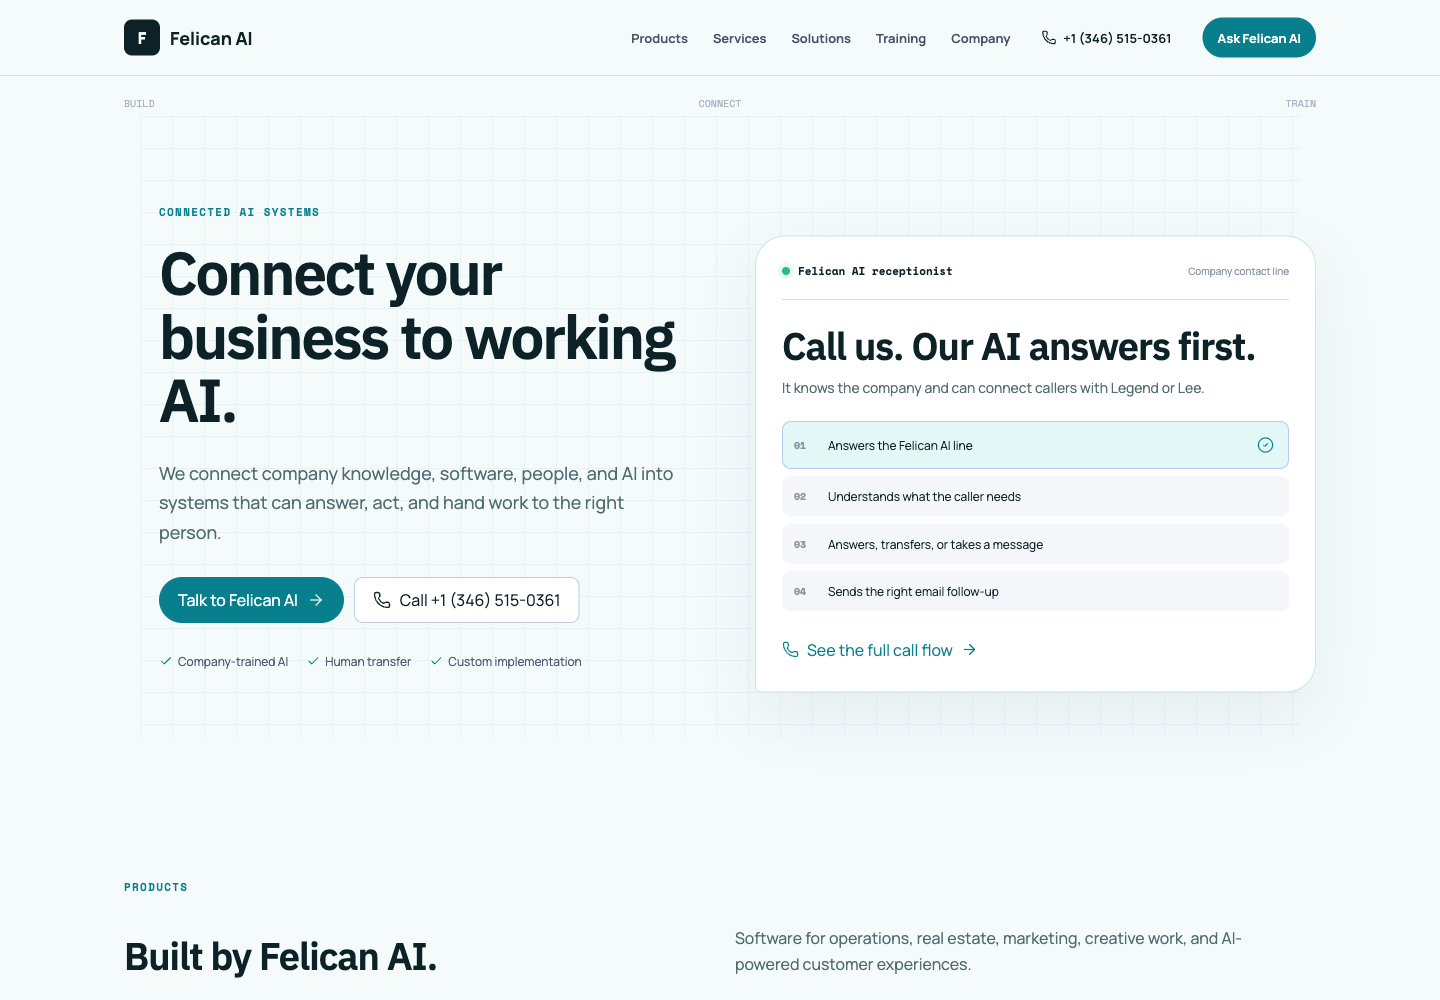
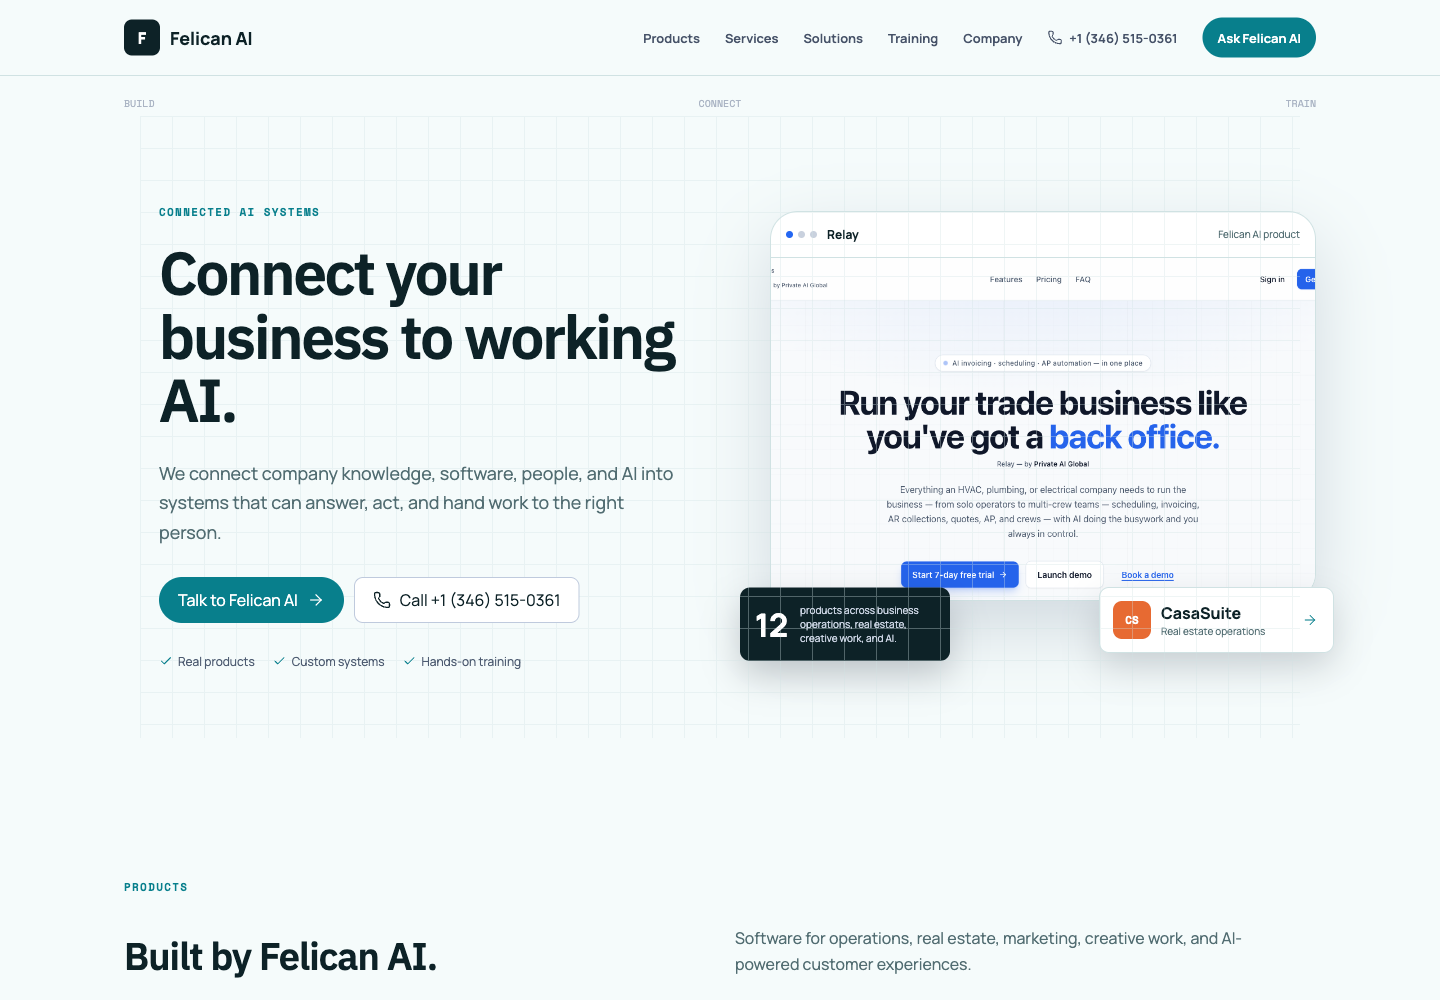
fix: keep phone automation private and lead with products

diff --git a/src/site.jsx b/src/site.jsx
@@ -6,6 +6,8 @@ import {
 } from 'lucide-react';
 import './reboot.css';
 import './variants.css';
+import './cleanup.css';
+import './cleanup.css';
 
 const PHONE = '+1 (346) 515-0361';
 const PHONE_HREF = 'tel:+13465150361';
@@ -35,7 +37,7 @@ const services = [
 ];
 
 const faqs = [
-  ['What happens when I call Felican AI?', 'Our AI receptionist answers the company line. It can explain what Felican AI does, answer common questions, transfer you to Legend or Lee, take a message, and trigger an email follow-up.'],
+  ['How can I contact Felican AI?', `Call us at ${PHONE}, email the company, or use the website assistant. The contact section has all three options.`],
   ['Can Felican connect to our current software?', 'Yes. We design integrations around the systems your team already uses, including CRM, email, calendars, phone systems, documents, and databases.'],
   ['Is the website assistant also a product?', 'Yes. The assistant on this site represents a product Felican AI can tailor to another company’s knowledge, services, lead process, and escalation rules.'],
   ['Do you offer private AI and training?', 'Yes. We provide controlled AI deployments as well as practical training for teams that need to adopt AI responsibly and usefully.'],
@@ -45,14 +47,14 @@ function Mark() {
   return <a className="fs-mark" href="#top"><span>F</span><b>Felican AI</b></a>;
 }
 
-function Header({ onChat, onPhone }) {
+function Header({ onChat }) {
   const [open, setOpen] = useState(false);
   return <header className="fs-header">
     <Mark />
     <button className="fs-menu" aria-label="Toggle navigation" onClick={() => setOpen(!open)}>{open ? <X/> : <Menu/>}</button>
     <nav className={open ? 'open' : ''}>
       <a href="#products">Products</a><a href="#services">Services</a><a href="#solutions">Solutions</a><a href="#training">Training</a><a href="#about">Company</a>
-      <button className="fs-phone-link" onClick={onPhone}><Phone/> {PHONE}</button>
+      <a className="fs-phone-link" href={PHONE_HREF}><Phone/> {PHONE}</a>
       <button className="fs-primary fs-nav-cta" onClick={onChat}>Ask Felican AI</button>
     </nav>
   </header>;
@@ -62,27 +64,18 @@ function ReviewBar({ variant, setVariant }) {
   return <div className="review-bar"><span>Design review</span>{[['signal','01 Signal'],['catalog','02 Catalog'],['network','03 Network']].map(([id,label]) => <button className={variant === id ? 'active' : ''} onClick={() => setVariant(id)} key={id}>{label}</button>)}</div>;
 }
 
-function ReceptionistCard({ onPhone }) {
-  const [step, setStep] = useState(0);
-  const steps = [
-    ['01', 'Answers the Felican AI line'],
-    ['02', 'Understands what the caller needs'],
-    ['03', 'Answers, transfers, or takes a message'],
-    ['04', 'Sends the right email follow-up'],
-  ];
-  return <article className="reception-card">
-    <header><span className="live-dot"/> Felican AI receptionist <small>Company contact line</small></header>
-    <h2>Call us. Our AI answers first.</h2>
-    <p>It knows the company and can connect callers with Legend or Lee.</p>
-    <div className="call-steps">{steps.map(([n,label], i) => <button className={step === i ? 'active' : ''} onClick={() => setStep(i)} key={n}><b>{n}</b><span>{label}</span>{step === i && <CircleCheck/>}</button>)}</div>
-    <button className="fs-call-button" onClick={onPhone}><Phone/> See the full call flow <ArrowRight/></button>
-  </article>;
+function ProductShowcase() {
+  return <div className="hero-showcase">
+    <div className="showcase-window"><header><span><i/><i/><i/></span><b>Relay</b><small>Felican AI product</small></header><img src="/relay-live.png" alt="Relay field service software"/></div>
+    <div className="showcase-stat"><strong>12</strong><span>products across business operations, real estate, creative work, and AI.</span></div>
+    <div className="showcase-mini"><span className="product-symbol" style={{background:'#e76a32'}}>CS</span><div><b>CasaSuite</b><small>Real estate operations</small></div><ArrowRight/></div>
+  </div>;
 }
 
-function Hero({ onChat, onPhone, variant }) {
+function Hero({ onChat, variant }) {
   const copy = {
     signal: ['Products · Services · Training', 'Practical AI for the work that runs your business.', 'Felican AI builds software, assistants, and automations for companies that want useful systems, clear support, and measurable improvements.'],
-    catalog: ['The Felican AI catalogue', 'Products and services, built by Felican AI.', 'Explore our software portfolio, custom implementation services, company AI receptionist, training, and publishing work.'],
+    catalog: ['The Felican AI catalogue', 'Products and services, built by Felican AI.', 'Explore our software portfolio, custom implementation services, training programs, and publishing work.'],
     network: ['Connected AI systems', 'Connect your business to working AI.', 'We connect company knowledge, software, people, and AI into systems that can answer, act, and hand work to the right person.'],
   }[variant];
   return <section className="fs-hero" id="top">
@@ -90,10 +83,10 @@ function Hero({ onChat, onPhone, variant }) {
       <span className="fs-kicker">{copy[0]}</span>
       <h1>{copy[1]}</h1>
       <p>{copy[2]}</p>
-      <div className="hero-actions"><button className="fs-primary" onClick={onChat}>Talk to Felican AI <ArrowRight/></button><button className="fs-secondary" onClick={onPhone}><Phone/> Call {PHONE}</button></div>
-      <div className="hero-proof"><span><Check/> Company-trained AI</span><span><Check/> Human transfer</span><span><Check/> Custom implementation</span></div>
+      <div className="hero-actions"><button className="fs-primary" onClick={onChat}>Talk to Felican AI <ArrowRight/></button><a className="fs-secondary" href={PHONE_HREF}><Phone/> Call {PHONE}</a></div>
+      <div className="hero-proof"><span><Check/> Real products</span><span><Check/> Custom systems</span><span><Check/> Hands-on training</span></div>
     </div>
-    <ReceptionistCard onPhone={onPhone}/>
+    <ProductShowcase/>
     <div className="hero-grid-labels" aria-hidden="true"><span>BUILD</span><span>CONNECT</span><span>TRAIN</span></div>
   </section>;
 }
@@ -152,8 +145,8 @@ function FAQ() {
   return <section className="fs-faq"><div className="section-heading"><span>FAQ</span><h2>Common questions.</h2></div><div>{faqs.map(([q,a],i) => <article className={open === i ? 'open' : ''} key={q}><button onClick={() => setOpen(open === i ? -1 : i)}><span>{q}</span><ChevronDown/></button>{open === i && <p>{a}</p>}</article>)}</div></section>;
 }
 
-function Contact({ onPhone, onChat }) {
-  return <section className="fs-contact" id="contact"><div><span>Contact</span><h2>Tell us what needs to work better.</h2><p>Talk with Felican AI first, or contact the company directly.</p></div><div className="contact-actions"><button onClick={onPhone}><Phone/><span><small>Call our AI receptionist</small><b>{PHONE}</b></span><ArrowRight/></button><button onClick={onChat}><MessageCircle/><span><small>Chat on the website</small><b>Ask Felican AI</b></span><ArrowRight/></button><a href="mailto:info@privateaiglobal.com"><Mail/><span><small>Send an email</small><b>info@privateaiglobal.com</b></span><ArrowRight/></a></div></section>;
+function Contact({ onChat }) {
+  return <section className="fs-contact" id="contact"><div><span>Contact</span><h2>Tell us what needs to work better.</h2><p>Call, email, or start with the website assistant.</p></div><div className="contact-actions"><a href={PHONE_HREF}><Phone/><span><small>Call Felican AI</small><b>{PHONE}</b></span><ArrowRight/></a><button onClick={onChat}><MessageCircle/><span><small>Chat on the website</small><b>Ask Felican AI</b></span><ArrowRight/></button><a href="mailto:info@privateaiglobal.com"><Mail/><span><small>Send an email</small><b>info@privateaiglobal.com</b></span><ArrowRight/></a></div></section>;
 }
 
 function ChatPanel({ close }) {
@@ -161,17 +154,13 @@ function ChatPanel({ close }) {
   const [input,setInput] = useState('');
   const respond = text => {
     const q = text.toLowerCase();
-    if(q.includes('phone')||q.includes('call')) return `Call ${PHONE}. Our AI receptionist can help, transfer you to Legend or Lee, or take a message.`;
+    if(q.includes('phone')||q.includes('call')||q.includes('contact')) return `Call Felican AI at ${PHONE}, or use the contact section to send an email.`;
     if(q.includes('product')) return 'Felican products include Relay, CasaSuite, LeadConcierge AI, InvestorHQ, ThreadPilot, AdPulse, FrameFire, Lumina, Dendrite, Ora, and Quorum.';
     if(q.includes('train')) return 'Training includes AI fundamentals, prompting for daily work, workflow workshops, and hands-on agent building.';
     return 'Felican AI builds assistants, automations, integrations, private AI systems, and business software. Tell me what you want to improve and I’ll point you in the right direction.';
   };
   const send = text => { const clean=text.trim(); if(!clean)return; setMessages(m=>[...m,{role:'user',text:clean},{role:'bot',text:respond(clean)}]);setInput(''); };
-  return <aside className="fs-chat" role="dialog" aria-label="Felican AI website assistant"><header><div><span className="online"/><b>Felican AI Assistant</b><small>Website product demo</small></div><button onClick={close}><X/></button></header><div className="fs-chat-messages">{messages.map((m,i)=><p className={m.role} key={i}>{m.text}</p>)}</div><div className="quick-asks">{['What products do you have?','Tell me about training','How does the phone AI work?'].map(q=><button key={q} onClick={()=>send(q)}>{q}</button>)}</div><form onSubmit={e=>{e.preventDefault();send(input)}}><input aria-label="Message Felican AI" value={input} onChange={e=>setInput(e.target.value)} placeholder="Ask a question"/><button><Send/></button></form></aside>;
-}
-
-function PhonePanel({ close }) {
-  return <div className="fs-modal-wrap" onMouseDown={close}><section className="fs-phone-modal" role="dialog" aria-label="Felican AI receptionist call flow" onMouseDown={e=>e.stopPropagation()}><button className="modal-x" onClick={close}><X/></button><span className="fs-kicker">Company phone system</span><h2>What happens when you call.</h2><p>The number on the contact page routes to Felican AI’s own receptionist. It is not a product listing; it is how customers reach us.</p><ol><li><b>1</b><span><strong>The AI answers as Felican AI.</strong> It identifies the company and asks how it can help.</span></li><li><b>2</b><span><strong>It uses approved company knowledge.</strong> Products, services, training, contact information, and common questions.</span></li><li><b>3</b><span><strong>It completes the right next step.</strong> Transfer to Legend or Lee, take a message, schedule, or send an email.</span></li><li><b>4</b><span><strong>It records the outcome.</strong> Call notes and follow-up details go to the right person.</span></li></ol><a className="fs-primary" href={PHONE_HREF}><Phone/> Call {PHONE}</a><small>Production activation requires the approved knowledge base, transfer numbers, hours, email destinations, and fallback rules.</small></section></div>;
+  return <aside className="fs-chat" role="dialog" aria-label="Felican AI website assistant"><header><div><span className="online"/><b>Felican AI Assistant</b><small>Website product demo</small></div><button onClick={close}><X/></button></header><div className="fs-chat-messages">{messages.map((m,i)=><p className={m.role} key={i}>{m.text}</p>)}</div><div className="quick-asks">{['What products do you have?','Tell me about training','How do I contact Felican AI?'].map(q=><button key={q} onClick={()=>send(q)}>{q}</button>)}</div><form onSubmit={e=>{e.preventDefault();send(input)}}><input aria-label="Message Felican AI" value={input} onChange={e=>setInput(e.target.value)} placeholder="Ask a question"/><button><Send/></button></form></aside>;
 }
 
 export function FelicanSite() {
@@ -180,7 +169,6 @@ export function FelicanSite() {
   const [variant,setVariant] = useState(['signal','catalog','network'].includes(requested) ? requested : 'signal');
   const review = params.get('review') === '1';
   const [chat,setChat] = useState(false);
-  const [phone,setPhone] = useState(false);
   return <div className={`felican-site variant-${variant}`}>
-    {review && <ReviewBar variant={variant} setVariant={setVariant}/>}<Header onChat={()=>setChat(true)} onPhone={()=>setPhone(true)}/><main><Hero variant={variant} onChat={()=>setChat(true)} onPhone={()=>setPhone(true)}/><Products/><WebsiteAssistantProduct onChat={()=>setChat(true)}/><Services/><SolutionsTraining/><Books/><About/><FAQ/><Contact onPhone={()=>setPhone(true)} onChat={()=>setChat(true)}/></main><footer className="fs-footer"><Mark/><p>Products · Services · Solutions · Training · Books · Company · Contact</p><span>© 2026 Felican AI</span></footer>{chat && <ChatPanel close={()=>setChat(false)}/>} {phone && <PhonePanel close={()=>setPhone(false)}/>}</div>;
+    {review && <ReviewBar variant={variant} setVariant={setVariant}/>}<Header onChat={()=>setChat(true)}/><main><Hero variant={variant} onChat={()=>setChat(true)}/><Products/><WebsiteAssistantProduct onChat={()=>setChat(true)}/><Services/><SolutionsTraining/><Books/><About/><FAQ/><Contact onChat={()=>setChat(true)}/></main><footer className="fs-footer"><Mark/><p>Products · Services · Solutions · Training · Books · Company · Contact</p><span>© 2026 Felican AI</span></footer>{chat && <ChatPanel close={()=>setChat(false)}/>}</div>;
 }

diff --git a/src/cleanup.css b/src/cleanup.css
@@ -1,0 +1,96 @@
+.hero-showcase {
+  position: relative;
+  min-height: 470px;
+}
+
+.showcase-window {
+  position: absolute;
+  inset: 10px 0 70px 15px;
+  border: 1px solid var(--line);
+  background: var(--surface);
+  border-radius: 15px;
+  overflow: hidden;
+  box-shadow: 0 28px 70px rgba(19, 40, 78, .16);
+  transform: rotate(1.2deg);
+}
+
+.showcase-window > header {
+  height: 46px;
+  padding: 0 15px;
+  display: flex;
+  align-items: center;
+  gap: 10px;
+  border-bottom: 1px solid var(--line);
+  font-size: 12px;
+}
+
+.showcase-window > header > span {
+  display: flex;
+  gap: 5px;
+}
+
+.showcase-window > header i {
+  width: 7px;
+  height: 7px;
+  border-radius: 50%;
+  background: #c9d1de;
+}
+
+.showcase-window > header i:first-child { background: #2467f2; }
+.showcase-window > header small { margin-left: auto; color: var(--muted); }
+.showcase-window img { width: 100%; height: calc(100% - 46px); object-fit: cover; object-position: top; }
+
+.showcase-stat {
+  position: absolute;
+  left: -15px;
+  bottom: 10px;
+  width: 210px;
+  padding: 15px;
+  display: flex;
+  gap: 12px;
+  align-items: center;
+  background: var(--ink);
+  color: #fff;
+  border-radius: 10px;
+  box-shadow: 0 15px 35px rgba(16, 24, 39, .22);
+}
+
+.showcase-stat strong { font-size: 32px; }
+.showcase-stat span { font-size: 10px; line-height: 1.4; color: #ccd5e4; }
+
+.showcase-mini {
+  position: absolute;
+  right: -18px;
+  bottom: 18px;
+  min-width: 235px;
+  padding: 13px;
+  display: grid;
+  grid-template-columns: 38px 1fr 18px;
+  align-items: center;
+  gap: 10px;
+  background: #fff;
+  border: 1px solid var(--line);
+  border-radius: 10px;
+  box-shadow: 0 15px 35px rgba(16, 24, 39, .16);
+}
+
+.showcase-mini div { display: flex; flex-direction: column; }
+.showcase-mini small { color: var(--muted); font-size: 10px; }
+.showcase-mini > svg { width: 16px; color: var(--brand); }
+
+.variant-catalog .hero-showcase { margin-top: 50px; min-height: 560px; }
+.variant-catalog .showcase-window { inset: 0 0 70px; transform: none; border-radius: 0; }
+.variant-catalog .showcase-stat, .variant-catalog .showcase-mini { border-radius: 0; }
+.variant-network .showcase-window { transform: none; border-radius: 28px 28px 28px 6px; }
+
+@media (max-width: 900px) {
+  .hero-showcase { min-height: 410px; }
+  .variant-catalog .hero-showcase { min-height: 430px; }
+}
+
+@media (max-width: 560px) {
+  .hero-showcase { min-height: 340px; }
+  .showcase-window { inset: 0 0 58px; transform: none; }
+  .showcase-stat { left: 8px; width: 165px; }
+  .showcase-mini { right: 8px; min-width: 185px; }
+}

diff --git a/src/App.test.jsx b/src/App.test.jsx
@@ -10,16 +10,15 @@ describe('Felican AI company site', () => {
   it('renders the Signal direction by default without review controls', () => {
     render(<App />);
     expect(screen.getByText(/Practical AI for the work that runs your business/i)).toBeInTheDocument();
-    expect(screen.getByText('Relay')).toBeInTheDocument();
+    expect(screen.getAllByText('Relay').length).toBeGreaterThan(0);
     expect(screen.queryByText('Design review')).not.toBeInTheDocument();
   });
 
-  it('positions the company phone AI as Felican’s front desk', () => {
+  it('presents the phone number as a normal contact link', () => {
     render(<App />);
-    fireEvent.click(screen.getByRole('button', { name: /See the full call flow/i }));
-    expect(screen.getByText(/What happens when you call/i)).toBeInTheDocument();
-    expect(screen.getByText(/transfer to Legend or Lee/i)).toBeInTheDocument();
-    expect(screen.getByText(/Call notes and follow-up details/i)).toBeInTheDocument();
+    const phoneLinks = screen.getAllByRole('link', { name: /\+1 \(346\) 515-0361/i });
+    expect(phoneLinks[0]).toHaveAttribute('href', 'tel:+13465150361');
+    expect(screen.queryByText(/receptionist/i)).not.toBeInTheDocument();
   });
 
   it('keeps three distinct directions in private review mode', () => {

diff --git a/index.html b/index.html
@@ -6,7 +6,7 @@
     <meta name="theme-color" content="#faf8f3" />
     <link rel="icon" href="/favicon.svg" type="image/svg+xml" />
     <meta name="description" content="Felican AI builds practical AI products, agents, automations, training, and private AI systems." />
-    <title>Felican AI — Three Design Concepts</title>
+    <title>Felican AI | Products, Services & Training</title>
   </head>
   <body>
     <div id="root"></div>
